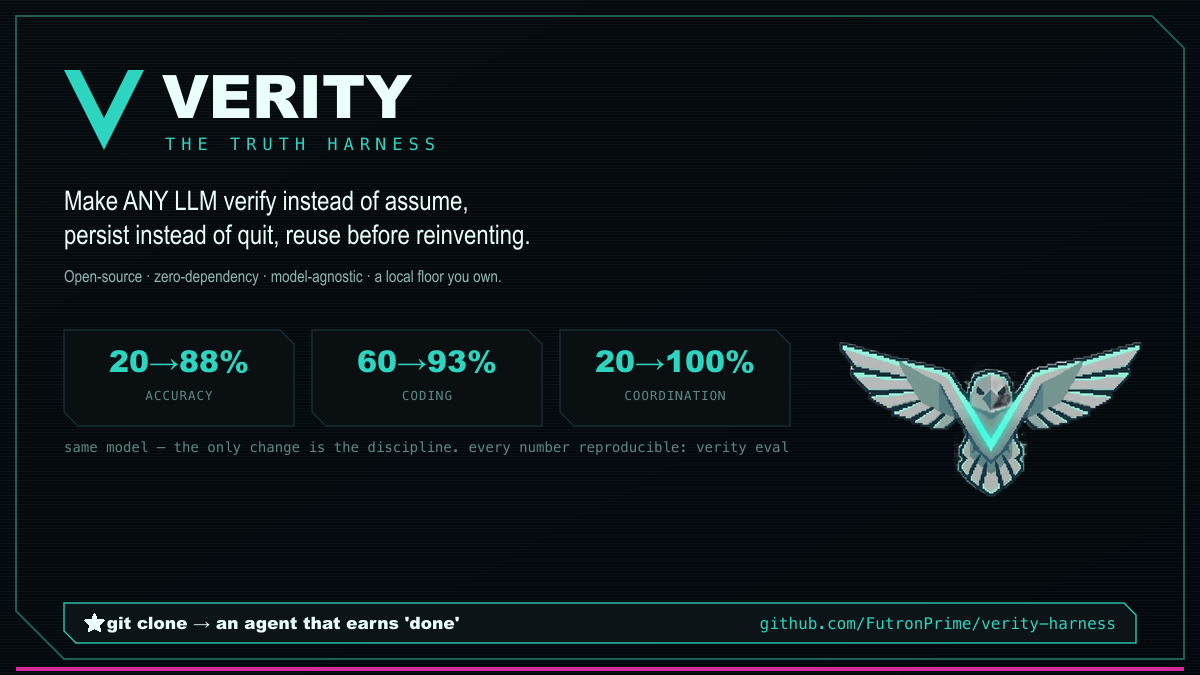
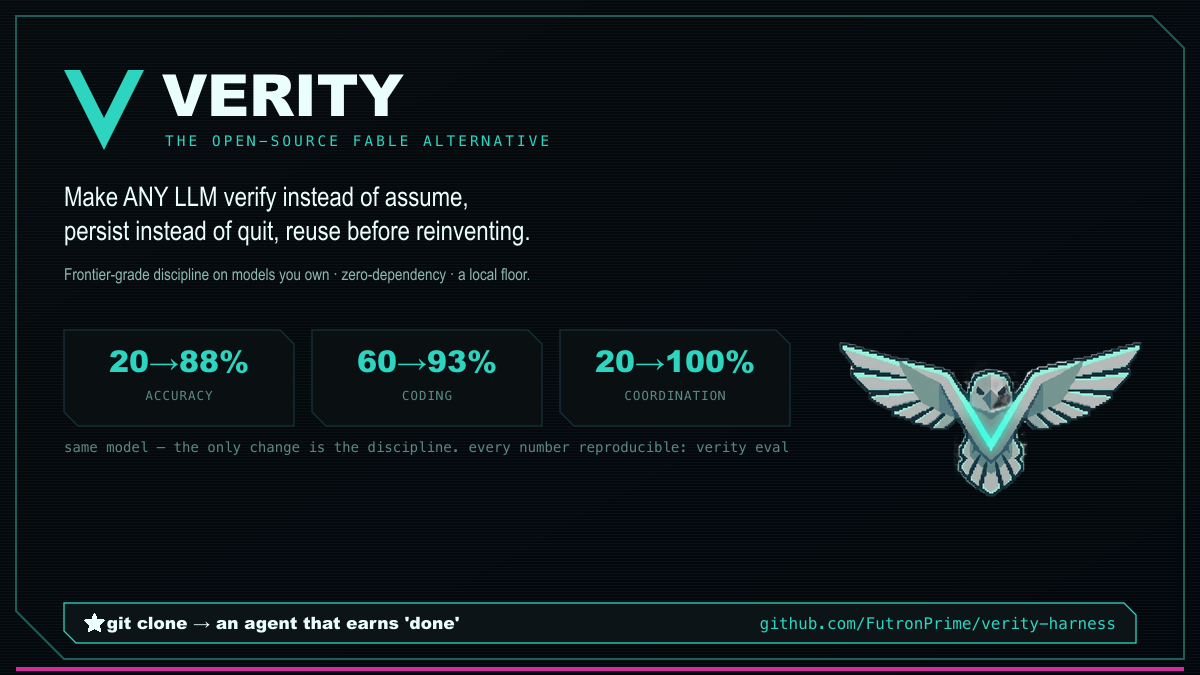
brand: lead with "the open-source Fable alternative" everywhere (highest-traffic search term)
- GitHub topics + repo description now front-load "open-source Fable alternative" (topics: fable,
  fable-alternative, open-source-fable).
- README headline → "The open-source Fable alternative — frontier-grade discipline on models you own."
- Both promo cards now subtitle "THE OPEN-SOURCE FABLE ALTERNATIVE".
- MARKETING.md: positioning + X thread + r/LocalLLaMA + Show HN titles + lead tagline + hashtags
  (#Fable #FableAlternative) all lead with it. Honest framing kept: the open-source PATH to Fable-grade
  reliability on models you own — not a weight clone.

Changed region(s): [[0.0308, 0.28, 0.4317, 0.3733], [0.1233, 0.0933, 0.4625, 0.2178], [0.0617, 0.4044, 0.4317, 0.4356]]

diff --git a/tools/gen_promo.py b/tools/gen_promo.py
@@ -36,11 +36,11 @@ def build():
     hawk, (hw, hh) = _b64_hawk(330)
     # V chevron mark
     S.append(f'<path d="M64 70 L104 150 L144 70 L128 70 L104 118 L80 70 Z" fill="{CYAN}"/>')
-    t(S, 162, 118, "VERITY", 60, INK, "hv")
-    t(S, 165, 150, "THE TRUTH HARNESS", 17, CYAN, "mono", "start", 6)
-    t(S, 64, 210, "Make ANY LLM verify instead of assume,", 27, INK, "nar")
-    t(S, 64, 244, "persist instead of quit, reuse before reinventing.", 27, INK, "nar")
-    t(S, 64, 282, "Open-source · zero-dependency · model-agnostic · a local floor you own.", 16.5, GRY, "nar")
+    t(S, 162, 116, "VERITY", 58, INK, "hv")
+    t(S, 165, 146, "THE OPEN-SOURCE FABLE ALTERNATIVE", 14.5, CYAN, "mono", "start", 3)
+    t(S, 64, 206, "Make ANY LLM verify instead of assume,", 27, INK, "nar")
+    t(S, 64, 240, "persist instead of quit, reuse before reinventing.", 27, INK, "nar")
+    t(S, 64, 280, "Frontier-grade discipline on models you own · zero-dependency · a local floor.", 16.5, GRY, "nar")
     # proof stats row — same model, harness off→on
     stats = [("ACCURACY", "20→88%"), ("CODING", "60→93%"), ("COORDINATION", "20→100%")]
     bx, bw, gap = 64, 230, 18
@@ -77,7 +77,7 @@ def build_hook():
     hawk, (hw, hh) = _b64_hawk(300)
     S.append(f'<path d="M64 66 L96 130 L128 66 L116 66 L96 106 L76 66 Z" fill="{CYAN}"/>')
     t(S, 142, 104, "VERITY", 40, INK, "hv")
-    t(S, 144, 130, "THE TRUTH HARNESS", 13, CYAN, "mono", "start", 5)
+    t(S, 144, 130, "THE OPEN-SOURCE FABLE ALTERNATIVE", 12.5, CYAN, "mono", "start", 2)
     t(S, 64, 250, "Even a frontier model gets", 30, GRY, "nar")
     t(S, 64, 330, "~80% of CURRENT facts", 64, INK, "hv")
     t(S, 64, 398, "WRONG", 64, MAG, "hv")

diff --git a/docs/MARKETING.md b/docs/MARKETING.md
@@ -5,8 +5,12 @@
 # VERITY — Marketing & Launch Playbook
 
 ## 1. Positioning (the one-liner)
-**VERITY · The Truth Harness — the open-source, model-agnostic way to make *any* LLM verify instead of
-assume, persist instead of quit, and reuse before reinventing — with a local failover floor you own.**
+**VERITY — the open-source Fable alternative: a zero-dependency harness that makes *any* LLM verify
+instead of assume, persist instead of quit, and reuse before reinventing — with a local failover floor you own.**
+
+> ⭐ **LEAD WITH "open-source Fable alternative" EVERYWHERE** — title, first line, hashtags, topics. It's
+> the highest-traffic search term and the correct category. (Honest framing: it's the open-source *path to*
+> Fable-grade reliability on models you own — not a weight clone. Never claim it IS Fable or matches its raw IQ.)
 
 Sub-positioning by audience:
 - *For agent builders fighting hallucination:* "Stop your agent from being confidently wrong."
@@ -50,7 +54,7 @@ The killer stat: *even a frontier model gets ~80% of CURRENT facts wrong from me
 ## 5. READY-TO-FIRE COPY
 
 ### A. X launch thread (lead)
-1/ Your AI agent's biggest problem isn't intelligence — it's *discipline*. It guesses when it should look things up, quits when it should persist, and says "done" when nothing was checked. VERITY fixes that for ANY model. Open-source, zero-dependency. 🧵
+1/ Your AI agent's biggest problem isn't intelligence — it's *discipline*. It guesses when it should look things up, quits when it should persist, and says "done" when nothing was checked. VERITY — **the open-source Fable alternative** — fixes that for ANY model. Zero-dependency. 🧵
 2/ The bet: what makes a frontier model *feel* reliable isn't only raw IQ — it's judgment under process. Look up current facts. Verify before declaring done. Don't quit on the first wall. Reuse before reinventing. Those are **transplantable**.
 3/ Proof = same model, harness OFF→ON, the only change is the discipline:
 • accuracy 20%→88%
@@ -71,7 +75,7 @@ Every number reproducible on your own models.
 - "Zero pip installs. Pure Python stdlib. `git clone` → an agent that verifies, persists, and reuses before reinventing — on any model, with a local floor you own. github.com/FutronPrime/verity-harness"
 
 ### C. Reddit — r/LocalLLaMA (title + body)
-**Title:** VERITY — a zero-dependency "discipline harness" that makes any local model verify instead of hallucinate (with a local Ollama failover floor)
+**Title:** VERITY — the open-source Fable alternative: a zero-dependency harness that makes any local model verify instead of hallucinate (with a local Ollama failover floor)
 **Body:**
 I got tired of agents being confidently wrong, quitting on the first wall, and saying "done" without checking anything — so I built VERITY: a pure-stdlib (no pip) harness that gates an LLM on *code conditions*, not vibes.
 What it does, same model harness off→on (all reproducible): accuracy 20%→88% (flagship) / 8%→91% (cheap+local), research 44%→100%, coding 60%→93%, coordination 20%→100%.
@@ -79,7 +83,7 @@ Why r/LocalLLaMA might care specifically: it's **model-agnostic** and **local-fi
 Repo (MIT, zero-dep): github.com/FutronPrime/verity-harness — would love feedback on the eval methodology (it's `verity eval`, deterministic, runs on your models).
 
 ### D. Hacker News — Show HN
-**Title:** Show HN: VERITY – zero-dependency harness that makes any LLM verify instead of assume
+**Title:** Show HN: VERITY – the open-source Fable alternative (zero-dep harness that makes any LLM verify instead of assume)
 **Body:** Same model, only the harness changes: accuracy 20%→88%, coding 60%→93%, coordination 20%→100% — every number reproducible (`verity eval` on your own models). Pure Python stdlib (no deps), model-agnostic, with a local Ollama failover floor you own. The honest finding baked into the benchmark: even a frontier model gets ~80% of *current* facts wrong from memory, so the harness forces it to look things up. Memory layer is add-only and can't touch your files; the self-evolution loop is gated so it can't self-corrupt. github.com/FutronPrime/verity-harness
 
 ### E. Product Hunt
@@ -88,14 +92,15 @@ Repo (MIT, zero-dep): github.com/FutronPrime/verity-harness — would love feedb
 **First comment:** Built this because I was tired of agents being confidently wrong. The benchmark is honest — it even shows the run where the harness caught its *own* bad eval. Reproduce any number on your own models. Feedback welcome!
 
 ### F. Tagline variants
+- **"The open-source Fable alternative."**  ← lead tagline (highest-traffic, correct category)
 - "The Truth Harness."
 - "Make any model think like Fable — without Fable."
 - "Verify, don't assume. Persist, don't quit. Reuse, don't reinvent."
 - "Frontier discipline. Any model. Zero dependencies."
 
 ### G. Hashtags / tags
-`#LLM #AIagents #opensource #LocalLLaMA #selfhosted #Python #MachineLearning #AI #agents #Ollama #hallucination #AItools`
-GitHub topics: `llm` `ai-agent` `agents` `local-llm` `openai-compatible` `hallucination` `self-hosted` `python` `zero-dependency` `llm-agnostic`
+`#Fable #FableAlternative #OpenSourceAI #LLM #AIagents #opensource #LocalLLaMA #selfhosted #Python #Ollama #hallucination #AItools`
+GitHub topics (LIVE): `fable` `fable-alternative` `open-source-fable` `llm` `ai-agents` `local-llm` `openai-compatible` `hallucination` `self-hosted` `python` `zero-dependency` `ollama`
 
 ---
 

diff --git a/README.md b/README.md
@@ -16,7 +16,9 @@
 **VERITY** is Latin (`veritas`) for **truth**. They banned the fiction — this is the open-source truth,
 and it can't be revoked.*
 
-### The open-source, model-agnostic Fable killer.
+### The open-source Fable alternative — frontier-grade discipline on models you own.
+
+*(model-agnostic · zero-dependency · local-first — the open-source way to get Fable-grade reliability without Fable.)*
 
 Make the models you **own** — a local 8B *or* a frontier flagship — verify, self-correct, and punch
 above their weight. Anthropic's **Fable** and **Mythos** can be banned, suspended, or priced out